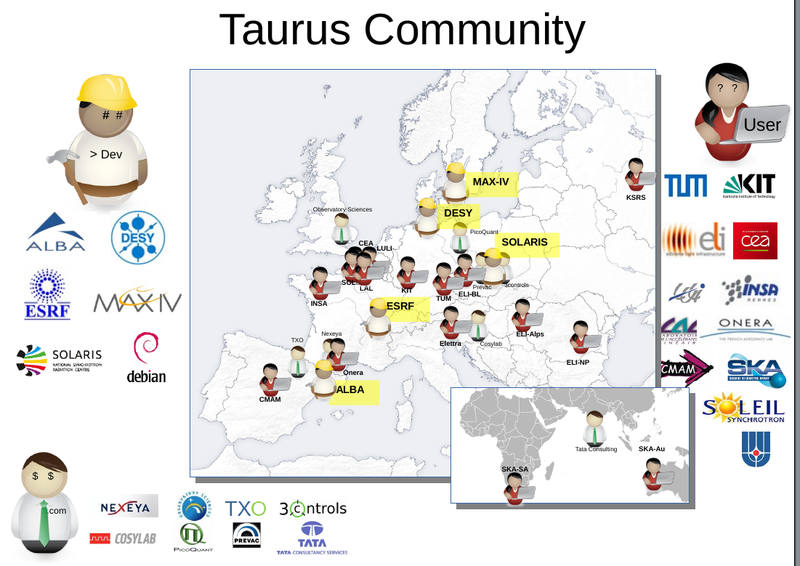
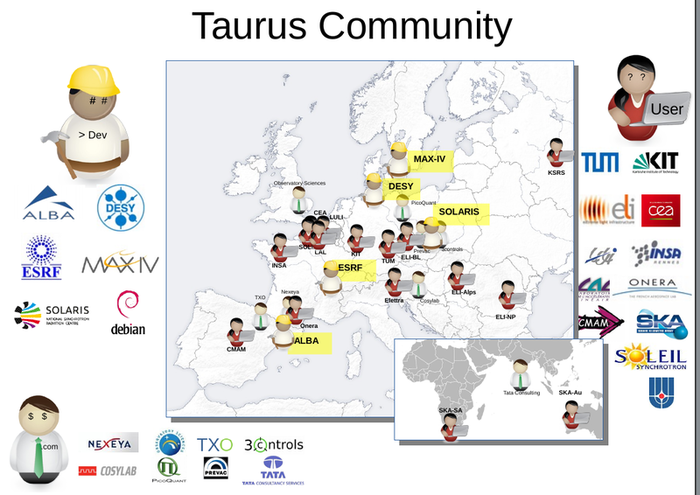
Resize slide images to fit in 700px width

diff --git a/slides/slides.md b/slides/slides.md
@@ -452,19 +452,13 @@ https://pytango.readthedocs.io/en/stable/quicktour.html
 
 ---
 
-## Taurus
-
 ![Taurus](taurus_structure.png "Taurus structure")
 
 ---
 
-## Taurus Community
-
 ![Taurus Community](taurus_community.png "Taurus community")
 
 ---
-
-## Sardana
 
 ![Sardana components](sardana_sketch.png "Sardana components")
 
